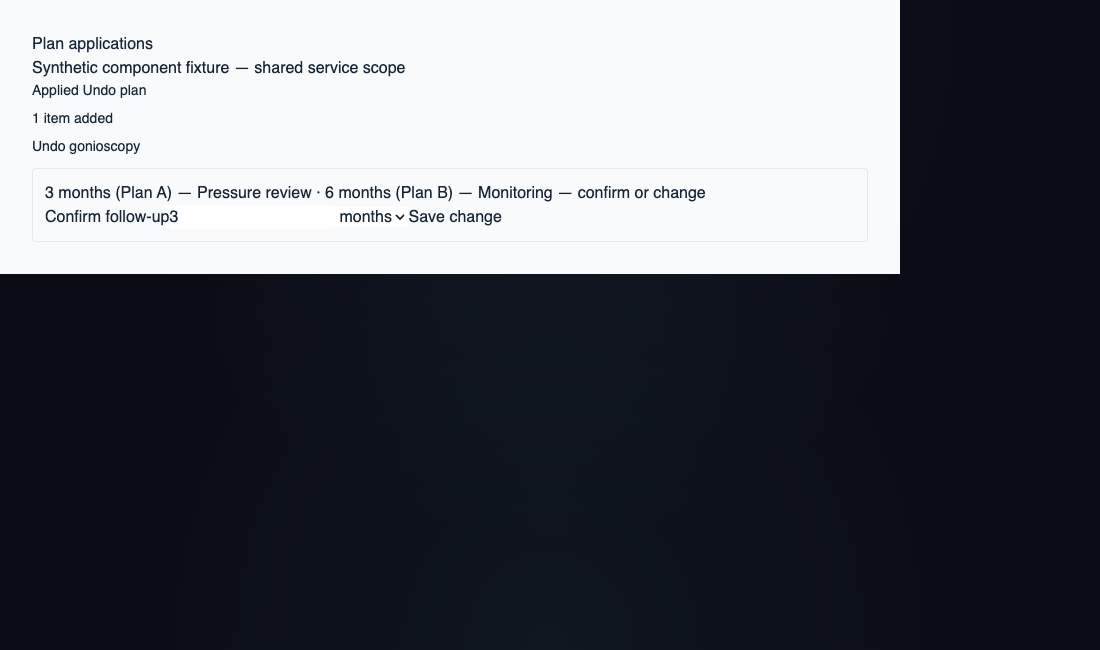
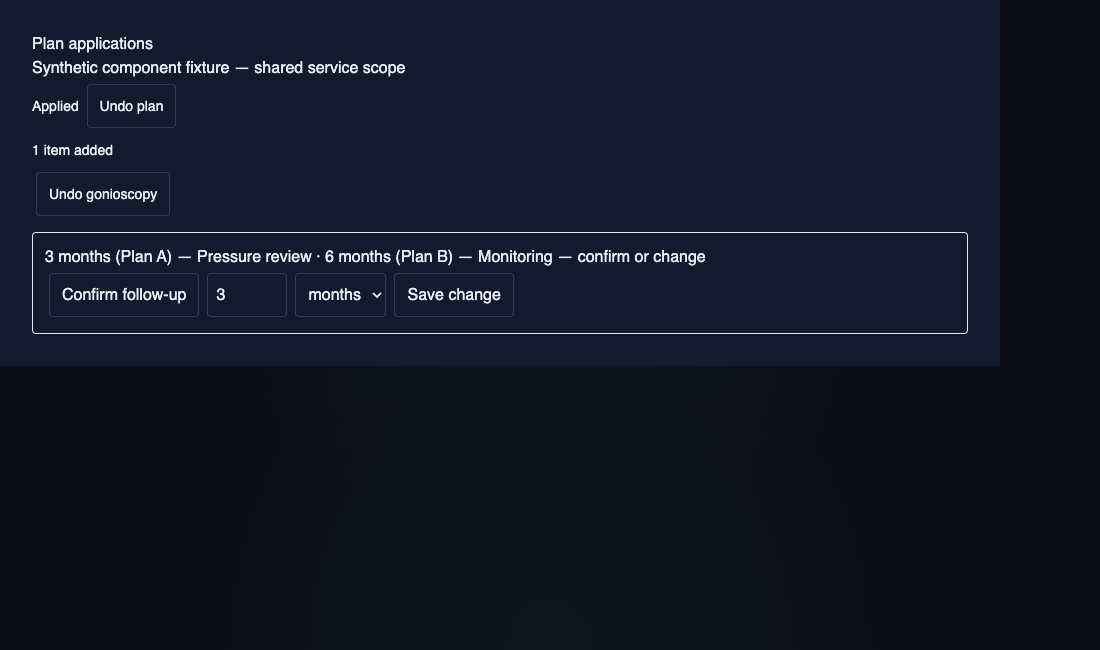
Match protocol controls to chart styling

diff --git a/ui/src/components/charting/ProtocolApplicationStatus.tsx b/ui/src/components/charting/ProtocolApplicationStatus.tsx
@@ -38,7 +38,7 @@ export function ProtocolApplicationStatus({
         <div key={a.id}>
           <span>Applied{showProtocolIds ? `: ${a.protocolId}` : ""}</span>{" "}
           <button
-            className="m-1 rounded border border-slate-400 px-3 py-1 disabled:opacity-50"
+            className="m-1 min-h-11 rounded border border-[color:var(--odos-line-2)] bg-[color:var(--odos-surface)] px-3 py-1 focus-visible:outline focus-visible:outline-2 disabled:opacity-50"
             type="button"
             disabled={busy}
             onClick={() => onUndo(a.id)}
@@ -64,7 +64,7 @@ export function ProtocolApplicationStatus({
         return (
           <div key={a.id}>
             <button
-              className="m-1 rounded border border-slate-400 px-3 py-1 disabled:opacity-50"
+              className="m-1 min-h-11 rounded border border-[color:var(--odos-line-2)] bg-[color:var(--odos-surface)] px-3 py-1 focus-visible:outline focus-visible:outline-2 disabled:opacity-50"
               type="button"
               disabled={busy}
               onClick={() => onUndo(a.id)}
@@ -133,7 +133,7 @@ export function FollowUpConfirmation({
         — confirm or change
       </p>
       <button
-        className="m-1 rounded border border-slate-400 px-3 py-1 disabled:opacity-50"
+        className="m-1 min-h-11 rounded border border-[color:var(--odos-line-2)] bg-[color:var(--odos-surface)] px-3 py-1 focus-visible:outline focus-visible:outline-2 disabled:opacity-50"
         type="button"
         disabled={busy || readOnly}
         onClick={() => save({})}
@@ -141,7 +141,7 @@ export function FollowUpConfirmation({
         Confirm follow-up
       </button>
       <input
-        className="m-1 w-20 rounded border border-slate-400 px-2 py-1"
+        className="m-1 min-h-11 w-20 rounded border border-[color:var(--odos-line-2)] bg-[color:var(--odos-surface)] px-2 py-1"
         aria-label="Follow-up interval"
         disabled={readOnly}
         type="number"
@@ -151,7 +151,7 @@ export function FollowUpConfirmation({
       />
       <select
         disabled={readOnly}
-        className="m-1 rounded border border-slate-400 px-2 py-1"
+        className="m-1 min-h-11 rounded border border-[color:var(--odos-line-2)] bg-[color:var(--odos-surface)] px-2 py-1"
         aria-label="Follow-up unit"
         value={unit}
         onChange={(e) => setUnit(e.target.value)}
@@ -161,7 +161,7 @@ export function FollowUpConfirmation({
         ))}
       </select>
       <button
-        className="m-1 rounded border border-slate-400 px-3 py-1 disabled:opacity-50"
+        className="m-1 min-h-11 rounded border border-[color:var(--odos-line-2)] bg-[color:var(--odos-surface)] px-3 py-1 focus-visible:outline focus-visible:outline-2 disabled:opacity-50"
         type="button"
         disabled={
           busy ||

diff --git a/docs/build-log/plan-shared-ui/README.md b/docs/build-log/plan-shared-ui/README.md
@@ -6,6 +6,6 @@ Synthetic React interaction checks: `cd ui && node --import tsx --test tests/pro
 
 Mutation evidence: replacing whole-only selection with first active application gives 1 failure (wrong undo target), 2 passes. Discarding fetched actions in AssessmentSection gives 1 failure (actual confirmation row missing), 2 passes. Restored checks passed. Initial attempted pre-implementation red had a syntax error and wrong test working directory; it is not valid behavior evidence. The recorded mutation controls are the valid red/green evidence.
 
-`components-after.png` is a synthetic browser component fixture, not a full app or real-backend proof. Captured with Chromium against task-owned Vite at 127.0.0.1:5197; verified listening process, stopped Vite and browser after capture. Snapshot predates final control spacing styling. Temporary fixture files removed.
+`components-after.png` is a synthetic browser component fixture, not a full app or real-backend proof. Captured with Chromium against task-owned Vite at 127.0.0.1:5197; verified listening process, stopped Vite and browser after capture. Temporary fixture files removed.
 
 At pinned head 02cdf89e, `rg 'add-item|followup' ui/src` and inspection of protocol-authoring.ts and AssessmentSection found no per-item API client or item tap surface. This change displays persisted item applications; no new item tap surface added. Listing refreshes after whole apply, individual/whole undo, and follow-up confirm/edit. Live backend persistence is covered separately by backend tests; independent evaluation remains outstanding.
